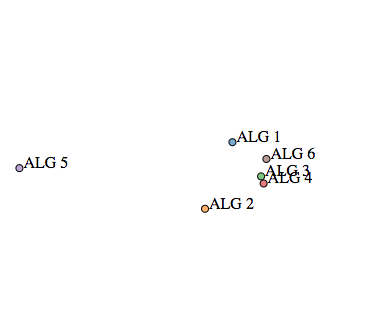
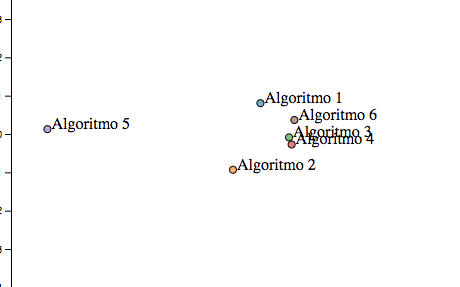
Changed pca labels

Changed region(s): [[0.4961, 0.3066, 0.8372, 0.669], [0.0, 0.0, 0.2791, 1.0]]

diff --git a/pcaPlots.js b/pcaPlots.js
@@ -151,12 +151,12 @@ var pcaPlots = function () {
         console.log(data);
 
         normData = [
-            {"component":"ALG 1","Teste 1":12,"Teste 2":0,"Teste 3":2,"Teste 4":16,"Teste 5":25,"Teste 6":1},
-            {"component":"ALG 2","Teste 1":34,"Teste 2":13,"Teste 3":9,"Teste 4":8,"Teste 5":13,"Teste 6":10},
-            {"component":"ALG 3","Teste 1":4,"Teste 2":8,"Teste 3":1,"Teste 4":1,"Teste 5":3,"Teste 6":8},
-            {"component":"ALG 4","Teste 1":9,"Teste 2":0,"Teste 3":7,"Teste 4":0,"Teste 5":3,"Teste 6":3},
-            {"component":"ALG 5","Teste 1":44,"Teste 2":50,"Teste 3":47,"Teste 4":47,"Teste 5":50,"Teste 6":50},
-            {"component":"ALG 6","Teste 1":0,"Teste 2":9,"Teste 3":0,"Teste 4":0,"Teste 5":10,"Teste 6":0}
+            {"component":"Algoritmo 1","Teste 1":12,"Teste 2":0,"Teste 3":2,"Teste 4":16,"Teste 5":25,"Teste 6":1},
+            {"component":"Algoritmo 2","Teste 1":34,"Teste 2":13,"Teste 3":9,"Teste 4":8,"Teste 5":13,"Teste 6":10},
+            {"component":"Algoritmo 3","Teste 1":4,"Teste 2":8,"Teste 3":1,"Teste 4":1,"Teste 5":3,"Teste 6":8},
+            {"component":"Algoritmo 4","Teste 1":9,"Teste 2":0,"Teste 3":7,"Teste 4":0,"Teste 5":3,"Teste 6":3},
+            {"component":"Algoritmo 5","Teste 1":44,"Teste 2":50,"Teste 3":47,"Teste 4":47,"Teste 5":50,"Teste 6":50},
+            {"component":"Algoritmo 6","Teste 1":0,"Teste 2":9,"Teste 3":0,"Teste 4":0,"Teste 5":10,"Teste 6":0}
         ];
         return normData;
     }
